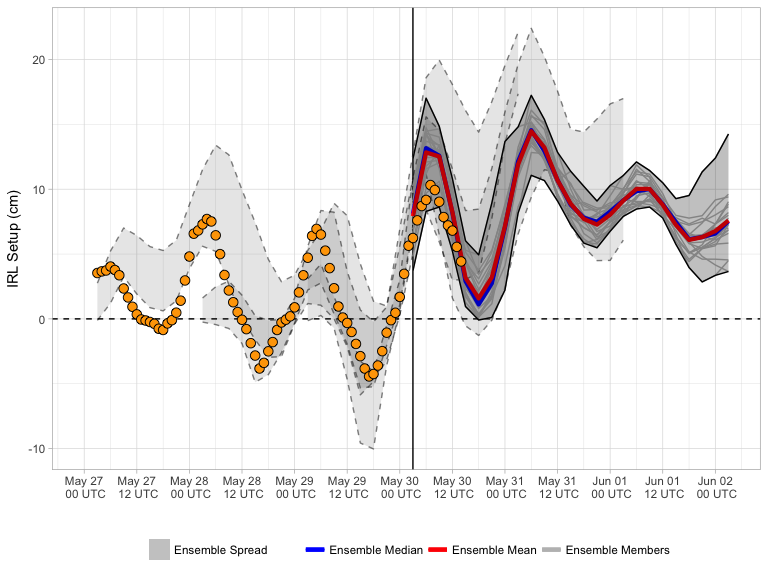
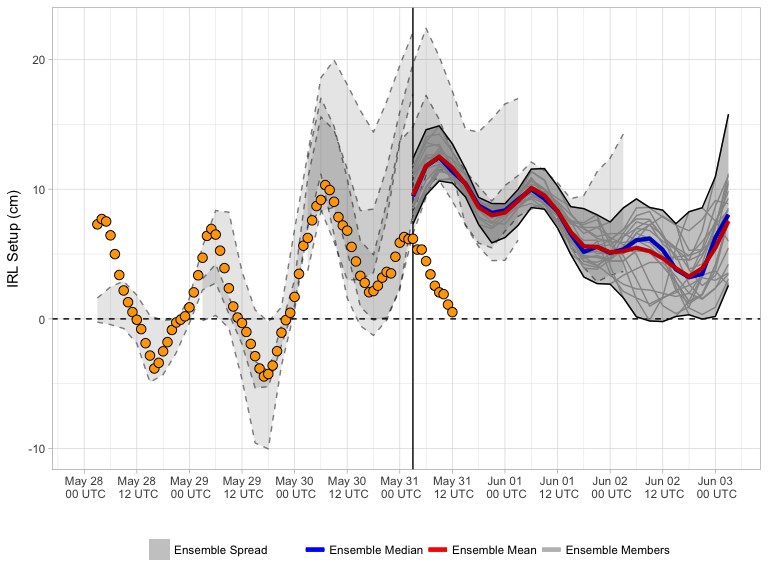
20170531 forecast update

Changed region(s): [[0.125, 0.0625, 0.9688, 0.7812], [0.625, 0.8125, 0.75, 0.8438], [0.9375, 0.2188, 0.9688, 0.25]]

diff --git a/docs/index.md b/docs/index.md
@@ -3,7 +3,7 @@ Current Forecast
 
 [![](img/raw_setup.png)](https://bhlmn.github.io/IRLSetup/img/raw_setup.png)
 
-> Forecast valid 2017-05-30 10:25:55.
+> Forecast valid 2017-05-31 09:08:16.
 
 Explanation
 -----------
@@ -15,7 +15,7 @@ water elevation in the northern IRL (near Titusville), and negative
 setup indicates the increase elevation in the southern IRL (near
 Sebastian). The x-axis displays the date and time in UTC. The solid
 vertical line represents the beginning of the most recent ensemble
-forecast (currently 2017-05-29 18:00:00). For this most recent forecast,
+forecast (currently 2017-05-30 18:00:00). For this most recent forecast,
 the ensemble spread (grey shading) is bound by solid black lines, with
 individual members represented by faint grey lines. The ensemble mean
 and median for this are represented by the red and blue curves,
